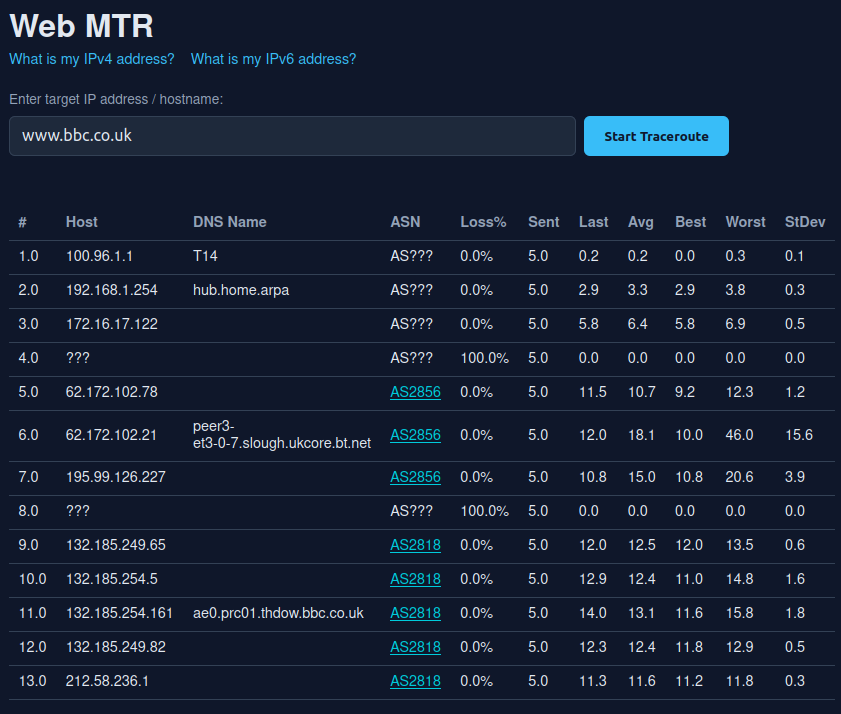
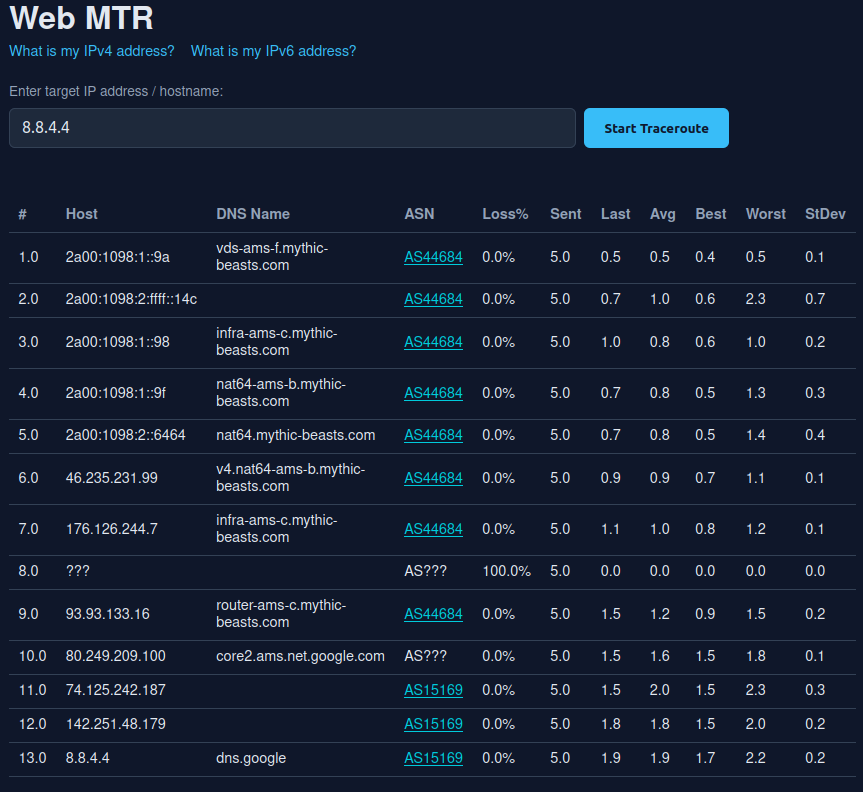
Clean up README

diff --git a/README.md b/README.md
@@ -1,5 +1,22 @@
 # Web MTR
 
+## Overview
+
+A simple web based traceroute:
+
+* A Python application runs the CLI command `mtr` and returns the results in JSON format.
+* An ICMP/v6 traceroute is performed.
+* Running in a NAT64 (IPv6-only) environment is supported if you don't have a dual stack environment!
+* The JSON output from `mtr` is parsed and displayed by a web UI (you can call the API directly to get JSON output).
+* UV is used to manage Python dependencies, virtual environments, and to run tests.
+* Gunicorn is used to run the web application and control the number of worker processes.
+* All application settings are defined in the [.env](.env) file.
+* The application runs inside Docker (the capability `NET_RAW` is required for `mtr` to have ICMP privileges).
+
+[![Web MTR UI](screenshot.png)](screenshot.png)
+
+An example from a NAT64 (IPv6-only!) host.
+
 ## Usage
 
 ```text
@@ -16,45 +33,20 @@ GET JSON output by calling the API directly:
 curl -s http://localhost:8371/traceroute?target=8.8.8.8 | jq
 ```
 
-Open browser to <http://localhost:8371> to use the UI:
-
-[![Web MTR UI](screenshot.png)](screenshot.png)
-
-## Overview
-
-This folder contains a basic web based traceroute.
-
-It is a single page web application which performs traceroute to an IP/hostname and displays the results in a user-friendly format.
-
-The web application is built as follows:
-
-* A single python script which runs the CLI command `mtr` and returns the results in JSON format.
-* UV is used to managed python dependencies and virtual environments.
-* An ICMP/v6 traceroute is performed.
-* Passes the JSON output and displays it in a web page.
-* The web page has a single input field for the user to enter the target IP/hostname and a button to start the traceroute.
-* The input field has a default value of the caller's IP address.
-* Two links are provided, one to ipv4.53bits.co.uk, and one to ipv6.53bits.co.uk (both open in a new tab), which the user can use to check their IP address.
-* The script runs the following MTR command: `mtr -j -c 10 <target>`, where `<target>` is the user input.
-* Gunicorn is used to run the web application and control the number of worker processes.
-* The application will run on port 8371.
-* The port and other settings are defined in a `.env` file.
-* The application is packaged as a Docker image for easy deployment.
-* A docker compose file is provided to run the application with a single command.
-* Capability NET_RAW is required for `mtr` to have ICMP privileges.
+Open a browser to <http://localhost:8371> to use the UI.
 
 ## Bindings
 
-If you want to bing to a specific IPv6 address, set the `LISTEN_ADDR` env var using square bracket syntax: `LISTEN_ADDR=[fe80::1122:3344:5566:7788]`
+If you want to bind to a specific IPv6 address, set the `LISTEN_ADDR` env var using square bracket syntax: `LISTEN_ADDR=[fe80::1122:3344:5566:7788]`
 
 ## NAT64
 
-If running on an IPv6 only host which uses NAT64 to provide IPv4 connectivity, ensure the `NAT64` env var contains the prefix of the NAT64 network, e.g. `NAT64=64:ff9b::/96`. Leave this var defined but empty if on a dual stack host.
+If running on an IPv6 only host which uses NAT64 to provide IPv4 connectivity, ensure the `NAT64` env var contains the prefix of the NAT64 network, e.g. `NAT64=64:ff9b::/96`. Leave this var defined but empty if the host has native IPv4 connectivity.
 
 With this env var set:
 
 * When an IPv4 address is entered as the target, it will be converted to a NAT64 address and the traceroute will be performed using that address.
-* When a traceroute is run to a NAT64 prefix (due to an IPv4 literal target or DNS64) the IPv4 addresses of each hop in the results are extracted from the mtr output and displayed as IPv4 addresses, along with their reverse DNS lookup result, and the ASN of the IPv4 address; rather than the NAT64 addresses (which have no reverse DNS or ASN information).
+* When a traceroute is run to a NAT64 prefix (due to an IPv4 literal target or DNS64) the IPv4 addresses of each hop in the results are extracted from the `mtr` output and displayed as IPv4 addresses, along with their reverse DNS lookup result, and the ASN of the IPv4 address; rather than the NAT64 addresses (which have no reverse DNS or ASN information).
 
 ## Tests
 
